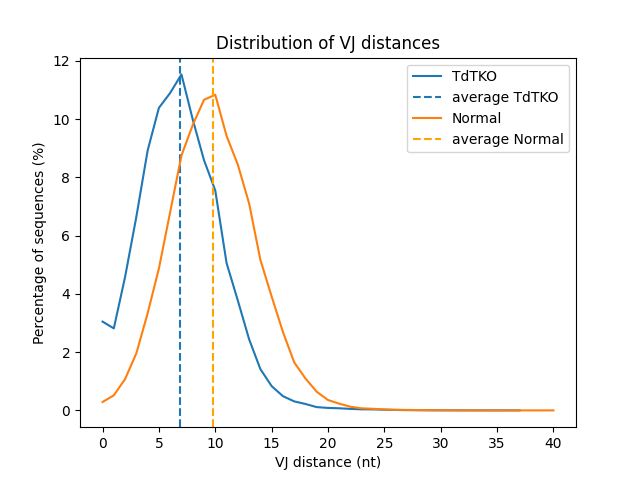
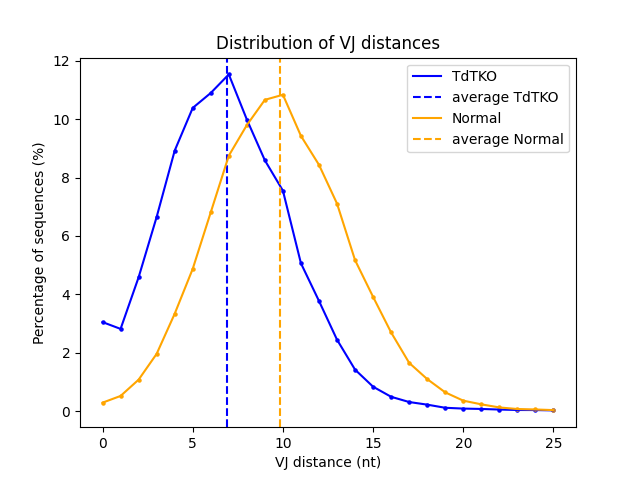
Altered some of the plots and created 3 new plots. test2.py contains a function used to check the sequence length in the filtered data files

diff --git a/code/plots.py b/code/plots.py
@@ -117,13 +117,16 @@ def plot_vj_distance_reads(x_points_lists, y_points_lists, labels):
 
 def plot_vj_distance_perc(x_points_lists, y_points_lists, avg, labels):
     plt.figure()
+    x_points = [x for x in x_points_lists[0] if x <= 25]
+    y_points, label, average = [y for y in y_points_lists[0] if y_points_lists[0].index(y) <= 25], labels[0], avg[0]
+    plt.plot(x_points, y_points, label=label, color='blue')
+    plt.scatter(x_points, y_points, color='blue', s=5)
+    plt.axvline(average, linestyle='dashed', label='average '+label, color='blue')
 
-    x_points, y_points, label, average = x_points_lists[0], y_points_lists[0], labels[0], avg[0]
-    plt.plot(x_points, y_points, label=label)
-    plt.axvline(average, linestyle='dashed', label='average '+label)
-
-    x_points, y_points, label, average = x_points_lists[1], y_points_lists[1], labels[1], avg[1]
-    plt.plot(x_points, y_points, label=label)
+    x_points = [x for x in x_points_lists[1] if x <= 25]
+    y_points, label, average = [y for y in y_points_lists[1] if y_points_lists[1].index(y) <= 25], labels[1], avg[1]
+    plt.plot(x_points, y_points, label=label, color='orange')
+    plt.scatter(x_points, y_points, color='orange', s=5)
     plt.axvline(average, linestyle='dashed', color='orange', label='average ' + label)
 
     plt.title('Distribution of VJ distances')
@@ -183,7 +186,7 @@ def plot_d_lengths(x_points_list, y_points_list, labels, title, outfile):
     x = numpy.asarray(list(set(x)))
     width = 0.40
     y_points, label = y_points_list[0], labels[0]
-    plt.bar(x-0.2, y_points, width=width, label=label)
+    plt.bar(x-0.2, y_points, width=width, label=label, color='blue')
     y_points, label = y_points_list[1], labels[1]
     plt.bar(x+0.2, y_points, width=width, label=label, color='orange')
     plt.xticks(numpy.arange(15))

diff --git a/code/test2.py b/code/test2.py
@@ -1,0 +1,27 @@
+import csv
+
+
+def check_sequence_length(filename):
+    """
+
+    :param filename:
+    :return:
+    """
+    max_sequence_length = 0
+    with open(filename, 'r') as f:
+        reader = csv.reader(f, delimiter='\t')
+        header = next(reader)
+        for line in reader:
+            seq_len = len(line[header.index('Junction.nucleotide.sequence')])
+            if seq_len > max_sequence_length:
+                max_sequence_length = seq_len
+    filename = filename.split('\\')[-1]
+    print(f'Maximum sequence length for file {filename}:\n{max_sequence_length}')
+
+
+if __name__ == '__main__':
+
+    file = 'C:\\Users\\gabev\\PycharmProjects\\MRP_TdTKO_mice\\data_files\\TdTKo\\filtered_data\\filtered_data_TdTKO.tsv'
+    check_sequence_length(file)
+    file = 'C:\\Users\\gabev\\PycharmProjects\\MRP_TdTKO_mice\\data_files\\B6\\filtered_data\\filtered_data_Normal.tsv'
+    check_sequence_length(file)
